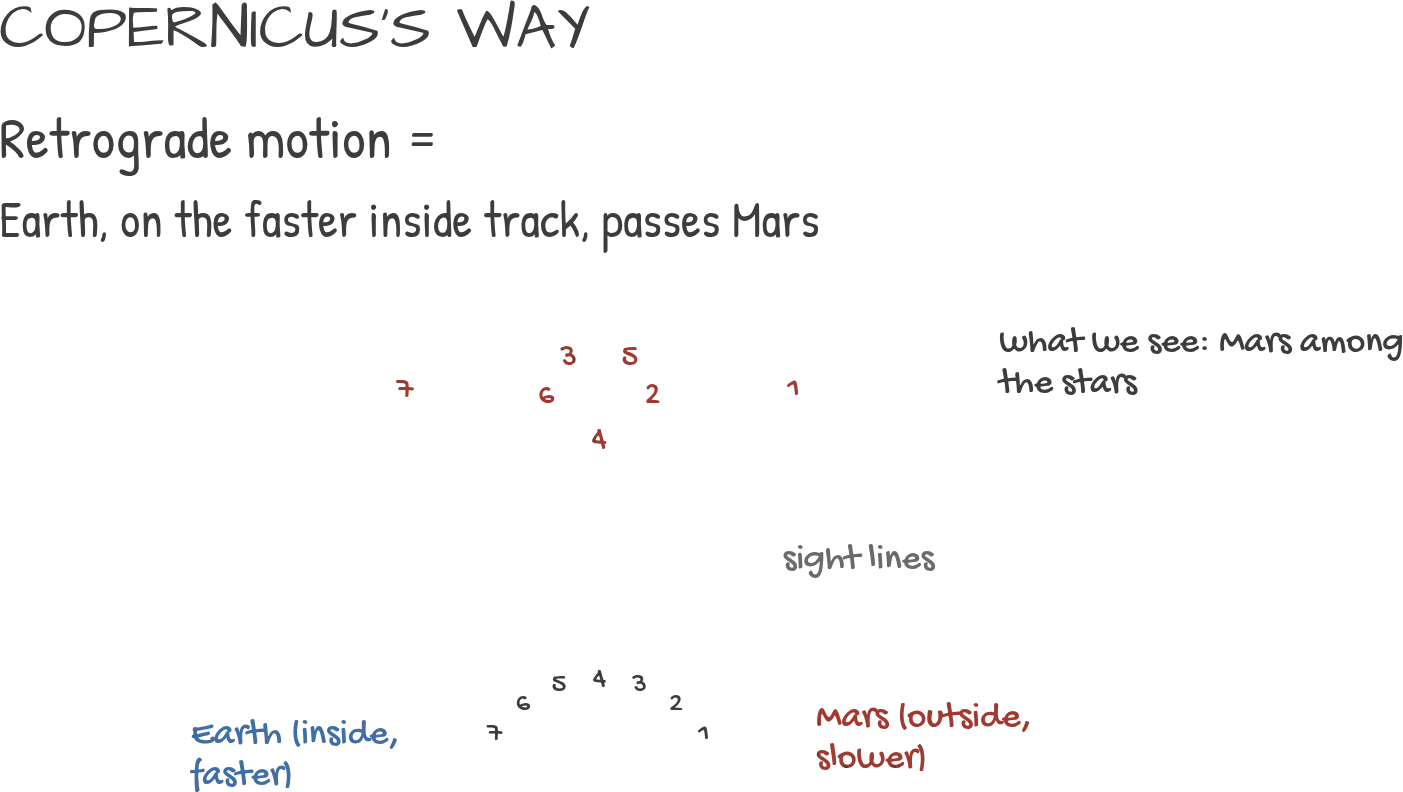
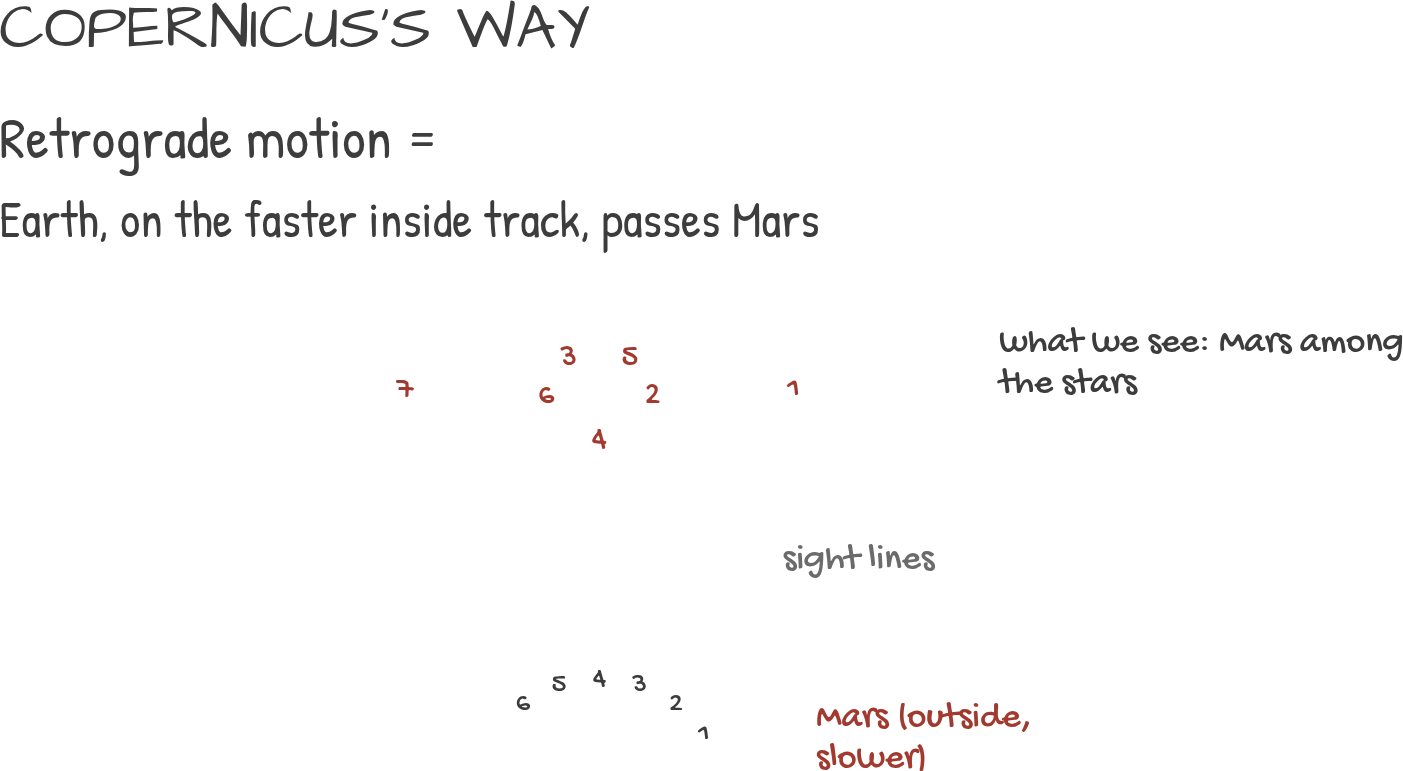
D03 Leo fixes: p21 dark cream rim and gold orbit label; p14 live wedge labels at centroids; p11 Earth label lifted clear of Try it

diff --git a/public/js/astro-scenes/d03/p14.js b/public/js/astro-scenes/d03/p14.js
@@ -30,7 +30,10 @@ export function sweptArea(a, b, e, n = 400) {
 export default function build(ctx) {
   const { reducedMotion } = ctx;
   const art = (n, b, o = {}) => ctx.art(ART + n, { box: box(b), ...o });
-  art("p14-labels.webp", [50, 35, 1475, 834], { layer: "fg" });
+  art("p14-labels.webp", [50, 35, 1475, 339], { layer: "fg" });
+  // the drawn "1 month" and "same area" sit on the drawn wedges; once the wedges move they hide and live
+  // labels in the same hand ride the centroid of each wedge instead
+  const wedgeTags = art("p14-labels-wedge.webp", [124, 479, 904, 834], { layer: "fg" });
   art("p14-fg-art.webp", [78, 113, 1258, 230], { layer: "fg" });
   art("p14-kepler.webp", [1185, 504, 1434, 820], { ink: false });
   const plane = ctx.paint([0, 120, 1200, 900], { z: 0.01 });
@@ -38,13 +41,23 @@ export default function build(ctx) {
   const planet = art("p14-planet-far.webp", [62, 550, 99, 590], { z: 0.04, ink: false });
   ctx.touchable(planet, { r: 0.5 });
 
+  const ink = ctx.palette && ctx.palette.dark ? "#F3EAD7" : "#3D3D3D";
+  let moved = false;
   let e = E_DRAWN, m = MONTHS / 2, playing = !reducedMotion, dragging = false, stepAt = -99;
   const mSlider = ctx.ui && ctx.ui.slider({ label: "Month", min: 0, max: MONTHS, step: 0.05, value: m, fmt: (v) => v.toFixed(1) }, (v) => { m = v; stop(); draw(); });
   ctx.ui && ctx.ui.slider({ label: "Eccentricity", min: 0, max: 0.8, step: 0.01, value: e, fmt: (v) => v.toFixed(2) }, (v) => { e = v; draw(); });
   const play = ctx.ui && ctx.ui.button(playing ? "Pause" : "Play", () => { playing = !playing; play.set(playing ? "Pause" : "Play"); });
   function stop() { playing = false; play && play.set("Play"); }
 
+  // area centroid of the fan from the Sun between months a0 and a1
+  function centroid(a0, a1) {
+    let A2 = 0, X = 0, Y = 0, p = where(a0, e);
+    for (let i = 1; i <= 40; i++) { const q = where(a0 + (a1 - a0) * i / 40, e); const c = (p[0] - SUN[0]) * (q[1] - SUN[1]) - (q[0] - SUN[0]) * (p[1] - SUN[1]); A2 += c; X += c * (SUN[0] + p[0] + q[0]) / 3; Y += c * (SUN[1] + p[1] + q[1]) / 3; p = q; }
+    return [X / A2, Y / A2];
+  }
   function draw() {
+    if (!moved && Math.abs(m - MONTHS / 2) > 1e-6) moved = true;
+    wedgeTags.visible = !moved;
     const cx = SUN[0] - A * e, b = A * Math.sqrt(1 - e * e);
     plane.redraw((g) => {
       // the wedges: the month in progress grows from its start, the last few whole months stay shaded
@@ -55,6 +68,10 @@ export default function build(ctx) {
         g.beginPath(); g.moveTo(SUN[0], SUN[1]);
         for (let i = 0; i <= 40; i++) { const p = where(a0 + (a1 - a0) * i / 40, e); g.lineTo(p[0], p[1]); }
         g.closePath(); g.fill(); g.globalAlpha = 0.7; g.strokeStyle = "#3D3D3D"; g.lineWidth = 1; g.stroke();
+      }
+      if (moved) {
+        g.globalAlpha = 1; g.fillStyle = ink; g.font = '37px "Gochi Hand"'; g.textAlign = "center"; g.textBaseline = "middle";
+        for (let k = now - KEEP; k < now; k++) { const c = centroid(k, k + 1); g.fillText("1 month", c[0], c[1]); if (k === now - 1) g.fillText("same area", c[0], c[1] + 38); }
       }
       g.globalAlpha = 1; g.strokeStyle = "#3D3D3D"; g.lineWidth = 3;
       g.beginPath(); g.ellipse(cx, SUN[1], A, b, 0, 0, 7); g.stroke();
@@ -76,6 +93,7 @@ export default function build(ctx) {
     m = best; draw(); return true;
   });
   draw();
+  if (globalThis.document && document.fonts) document.fonts.load('37px "Gochi Hand"').then(() => draw(), () => {});
   return {
     update(t, dt) {
       sun.scale.setScalar(reducedMotion ? 1 : 1 + 0.0075 * (1 - Math.cos(2 * Math.PI * t / 6)));

diff --git a/public/js/astro-scenes/d03/p21.js b/public/js/astro-scenes/d03/p21.js
@@ -29,13 +29,19 @@ export function flight(v, maxT = ORBIT_S * 1.02, h = 1 / 480) {
 export default function build(ctx) {
   const { reducedMotion } = ctx;
   const art = (n, b, o = {}) => ctx.art(ART + n, { box: box(b), ...o });
-  art("p21-labels.webp", [53, 35, 1494, 859], { layer: "fg" });
+  const dark = !!(ctx.palette && ctx.palette.dark);
+  art("p21-labels.webp", [84, 35, 1494, 859], { layer: "fg" });
+  // "≈ 8 km/s: orbit!" is dark blue on paper; in dark mode it switches to the label gold (#E2B654)
+  art(dark ? "p21-label-orbit-gold.webp" : "p21-label-orbit.webp", [53, 169, 306, 201], { layer: "fg", ink: false });
   art("p21-fg-art.webp", [78, 113, 1199, 221], { layer: "fg" });
   art("p21-earth.webp", [70, 410, 796, 900], { ink: false });
   art("p21-trajectories.webp", [441, 144, 1222, 840], { z: 0.01 }).material.opacity = 0.3;
   art("p21-mountain.webp", [341, 337, 520, 450], { z: 0.02, ink: false });
   const astro = art("p21-astronaut.webp", [1232, 542, 1445, 790], { ink: false });
+  // dark mode only: a thin cream pencil rim (#F7F6F2 at 60 percent, 2 px, no glow) on the astronaut and Earth
+  const rim = dark ? art("p21-astronaut-rim.webp", [1230, 541, 1446, 792], { ink: false }) : null;
   const ay = astro.position.y, bob = ctx.at(0, 4)[1] - ctx.at(0, 0)[1];
+  const rimY = rim ? rim.position.y : 0;
   const plane = ctx.paint([0, 0, 1600, 900], { z: 0.03 });
   const grab = new ctx.THREE.Object3D(); ctx.layers.mid.add(grab); ctx.touchable(grab, { r: 0.35 });
   { const p = ctx.at(START[0], START[1]); grab.position.set(p[0], p[1], 0.05); }
@@ -53,6 +59,7 @@ export default function build(ctx) {
   }
   function draw() {
     plane.redraw((g) => {
+      if (dark) { g.strokeStyle = "#F7F6F2"; g.globalAlpha = 0.6; g.lineWidth = 2; g.beginPath(); g.arc(C[0], C[1], R + 1, 0, 7); g.stroke(); g.globalAlpha = 1; }
       let bx = START[0], by = START[1], vx = 1, vy = 0, n = 0;
       if (pulling) { bx = pulling[0]; by = pulling[1]; }
       if (shot) {
@@ -88,7 +95,7 @@ export default function build(ctx) {
   return {
     update(t) {
       now = t;
-      if (!reducedMotion) astro.position.y = ay + bob * Math.sin(2 * Math.PI * t / 7), astro.rotation.z = 0.035 * Math.sin(2 * Math.PI * t / 7);
+      if (!reducedMotion) astro.position.y = ay + bob * Math.sin(2 * Math.PI * t / 7), astro.rotation.z = 0.035 * Math.sin(2 * Math.PI * t / 7), rim && (rim.position.y = astro.position.y - ay + rimY, rim.rotation.z = astro.rotation.z);
       if (shot && !reducedMotion) draw();
     },
     dispose() {},

diff --git a/public/js/astro-scenes/d03/p11.js b/public/js/astro-scenes/d03/p11.js
@@ -24,7 +24,9 @@ export function positions(s) {
 export default function build(ctx) {
   const { reducedMotion } = ctx;
   const art = (n, b, o = {}) => ctx.art(ART + n, { box: box(b), ...o });
-  art("p11-labels.webp", [84, 35, 1487, 827], { layer: "fg" });
+  art("p11-labels.webp", [84, 35, 1487, 806], { layer: "fg" });
+  // "Earth (inside, faster)" and its leader, lifted 40 px so the Try it tab no longer covers it
+  art("p11-label-earth.webp", [274, 714, 587, 787], { layer: "fg" });
   art("p11-fg-art.webp", [79, 113, 697, 777], { layer: "fg" });
   art("p11-starwall.webp", [136, 341, 1336, 490]);
   const faded = [art("p11-mars-sky.webp", [269, 371, 1117, 453], { z: 0.01 }), art("p11-earth.webp", [589, 764, 760, 870], { z: 0.01, ink: false }), art("p11-mars-orbit.webp", [583, 729, 800, 820], { z: 0.01, ink: false })];
